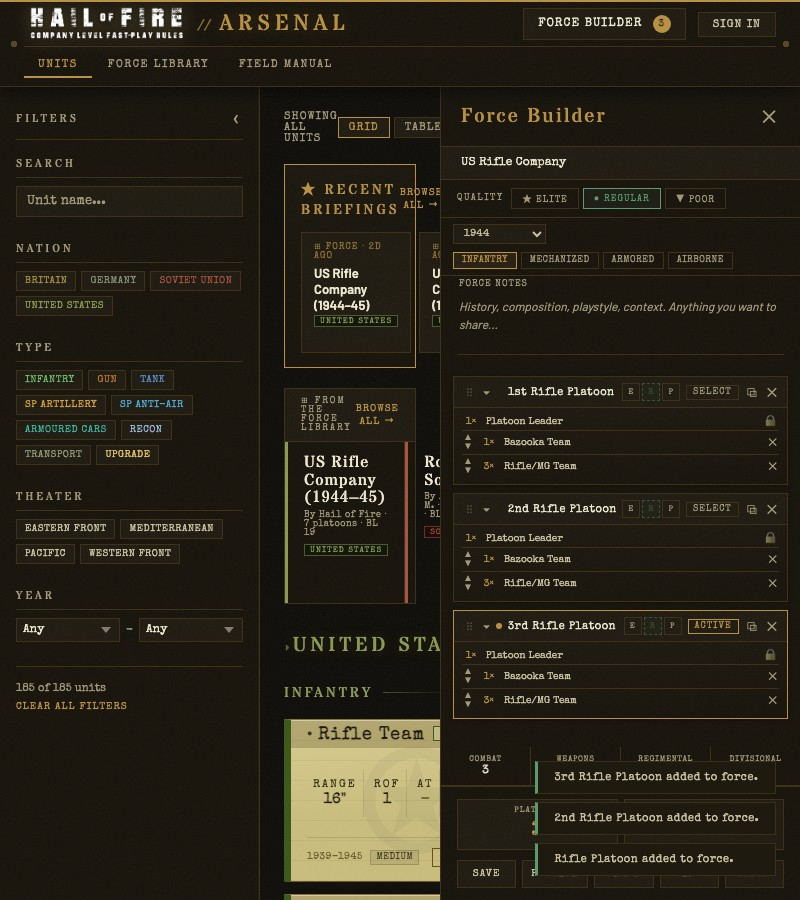
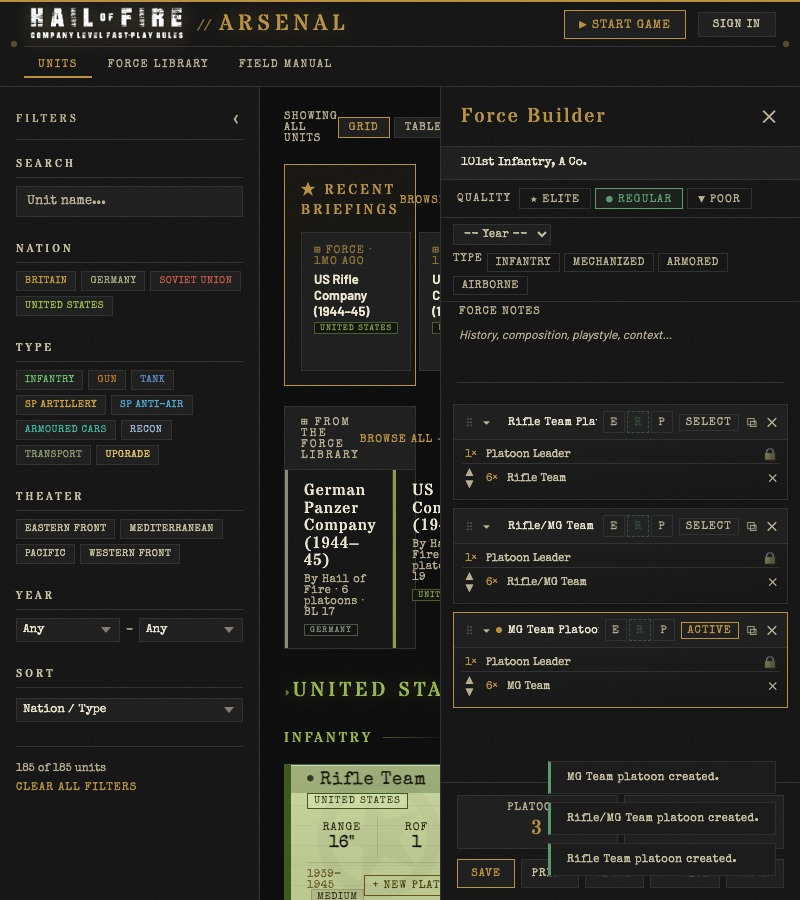
Regenerate guide screenshots with current Arsenal UI
Took fresh screenshots via headless Chrome / Puppeteer with the same
states the previous shots captured:

  s01-units-overview.jpg
    Units page with the new neutral dark palette, the Start Game
    header button, and the redesigned unit cards (nation badge on
    second line, type next to it).

  s03-units-with-force.jpg
    Force Builder panel open with 3 platoons (Rifle Team, Rifle/MG
    Team, MG Team) and the new collapsible Force Config section.

  s05-fpp-start.jpg
    FPP setup screen with the British Rifle Company as Player A and
    German Grenadier Company as opponent (via the share-link flow).

  s08-fpp-result.jpg
    Parity Complete screen reflecting the current scoring (now with
    fixed Panzerfaust scoring and 25-pdr swap in published forces).

  s09-bpt-prefilled.jpg
    Break Point Tracker with both panels, the centered End Game
    button, and the new "Progress is saved automatically" notice.

Caption updated: s08 referenced "Patton's force −4" which was specific
to the old scoring. Now reads with the current −14 reduction.

diff --git a/guide.html b/guide.html
@@ -550,7 +550,7 @@
             <p>Arsenal shows which side has the stronger force and by how much. The weaker side keeps their full Break Limit; the stronger side's BL is reduced. This levels the playing field so neither side has a structural advantage going into the game.</p>
             <div class="shot">
               <img src="guide-assets/s08-fpp-result.jpg" alt="FPP parity result">
-              <div class="shot-cap">"Parity Complete": each player's adjusted Break Limit is displayed. Here, Patton's stronger force is penalised −4, bringing his BL from 17 down to 13.</div>
+              <div class="shot-cap">"Parity Complete": each player's adjusted Break Limit is displayed. Here, the stronger force is penalised −14, bringing its BL from 19 down to 5.</div>
             </div>
           </div>
         </div>
